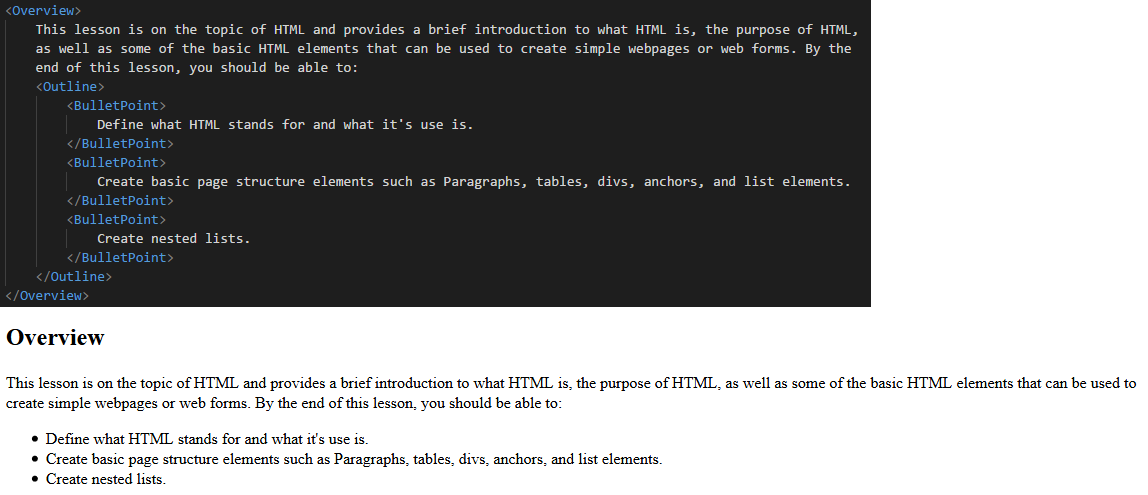
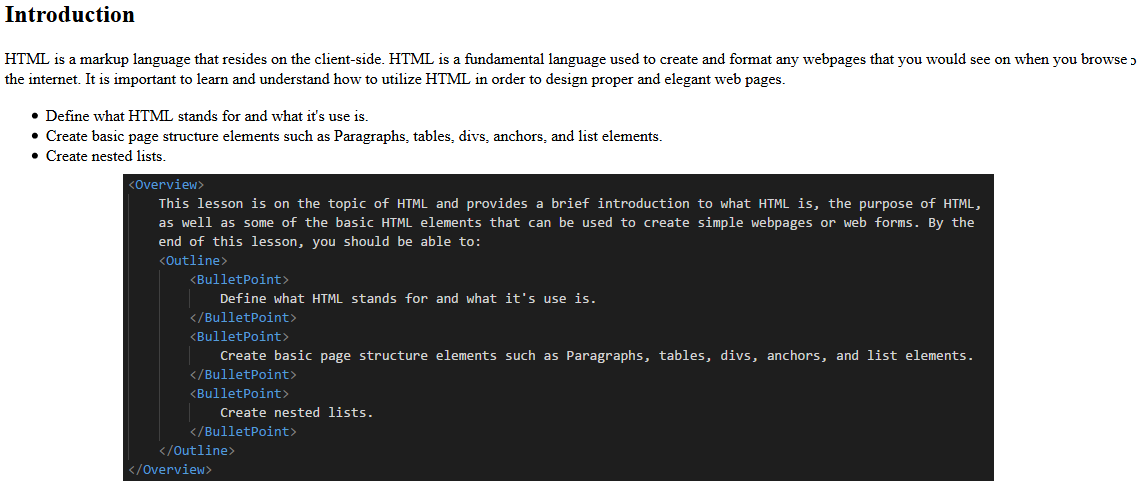
Working more on documentation

diff --git a/tma2.htm b/tma2.htm
@@ -15,16 +15,13 @@
         <div class="linksBar">
             <ul>
                 <li>
-                    <a href="part1/resume.xml">Resume</a>
+                    <a href="tma2.htm">Home</a>
                 </li>
                 <li>
-                    <a href="part2/WelcomeToLearnTheWeb.html">Learn The Web</a>
+                    <a href="part1/WelcomeToSiteMark.php">SiteMark</a>
                 </li>
                 <li>
-                    <a href="part3/photoSlideshow.html">Photo Slideshow</a>
-                </li>
-                <li>
-                    <a href="part4/UtilityTools.html">Utility Tools</a>
+                    <a href="part2/WelcomeToLearnatorium.php">Learn The Web</a>
                 </li>
             </ul>
         </div>
@@ -458,76 +455,89 @@
                     and add those courses to their list of courses. This allows different users to have their own list of courses they can take and work 
                     on. One of the core components of this system is the EMLs (educational markup langugages), which makes course creation more simple. 
                     It allows SMEs (Subject Matter Experts) to create courses without having to know programming knowledge to create a web page for 
-                    their courses. The only thing the SME needs to know is how to write XML tags, which is the format that the EML is in.
-                    
-                    
-                    
-                    The educational markup language should 
-                    be consise to the development of a course. This means that the EML tags should have terminology that occurs often in course development. 
-                    As well, each of the terms should be explained thoroughly in their use and how they should be used. This is to educate the SME on 
-                    how to create a course using the EML. Next, the database design is important. The database should be able to store lots of information 
-                    including courses, units, lessons, quizzes, learner information, images, videos, and audio files. For things such as images, videos, 
-                    and audio files, it was not specified how these files should be stored in the database, meaning that they could be stored directly 
-                    into the database as a blob object, or the URL to these learning objects could be stored, as long as a copy of these objects are 
-                    stored at a known location on the database. After these technologies are developed for the application, the PHP parser should be 
-                    created. This parser will take the EML data stored in the database and parse it into HTML elements that will be displayed to the 
-                    users. The PHP parser can take the XML structures and replace the text inside the tags with HTML elements as a simple parser. For 
-                    example, a &lt;Paragraph&gt; tag can be replaced by &lt;p&gt; in the parser to conver the Paragraph tag into an acutal HTML p tag.
-                    In terms of data inside the EML, there will be information about learning content and quizzes. The learning content can come from 
-                    the first assignment's part 2, where a education system was developed, as long as the data is rewritten in the EML structure. Along 
-                    with each lesson, there should be a quiz that follows. Here, I am assuming that it is alright for the quiz to be similar to the 
-                    quizzes that were implemented in assignment 1 part 2. Finally, the implementatin portion should have the system deployed onto a 
-                    web server for someone to evalutate the system. The system should look and feel like a learning management system, with funcitonalities 
-                    of an online learning management system.
+                    their courses. The only thing the SME needs to know is how to write XML tags, which is the format that the EML is in. The system will 
+                    contain two different EMLs, one EML is used for describing the lessons, while the other lesson is an EML to describe the quizzes 
+                    associated with each lesson. The EML for the lessons is described using the following tags:
                 </p>
 
-                <p class="title4">
-                    
-
-                    There are two different EMLs for this assignment; one EML is used for describing the lessons, 
-                    while the other lesson is an EML to describe the quizzes associated with each lesson. The EML
-                    for the lessons is described using the following tags:
-                </p>
-                
                 <ul class="title4">
                     <li>
                         <b>&lt;Overview&gt;&lt;/Overview&gt;</b> Describes the overview of the lesson, similar to 
-                        an abstract for a technical document.
+                        an abstract for a technical document. Text for the overview is placed within the Overview Tags
                     </li>
                     <li>
-                        <b>&lt;Outline&gt;&lt;/Outline&gt;</b> A container inside the outline of topics associated with. 
-                        Each Outline tag contains BulletPoint tags inside to specify each point for the outline.
+                        <b>&lt;Outline&gt;&lt;/Outline&gt;</b> A container for the outline topics, where the outline tag is placed 
+                        inside the Overview Tags, after the text inside the Overview Tags. Each Outline tag contains BulletPoint 
+                        tags inside to specify each point for the outline.
                     </li>
                     <li>
-                        <b>&lt;BulletPoint&gt;&lt;/BulletPoint&gt;</b> A bullet point inside of the outline.
+                        <b>&lt;BulletPoint&gt;&lt;/BulletPoint&gt;</b> A bullet point inside of the outline. The BulletPoint tag resides 
+                        inside the Outline tags, and the text for the bullet point is inputted between the BulletPoint tags.
+                    </li>
+                    <li>
+                        Here's an example of an Overview, Outline, and multiple BulletPoint elements The Overview Tag creates 
+                        the title and the information below the title. The Outline and BulletPoint tags create the list.
+                        <img src="../shared/part2_EML_overview.png" alt="Picture of the code containing an Overview, Outline, 
+                        and three BulletPoint EML tags. There is also a picture of the rendered HTML."></img>
                     </li>
                     <li>
                         <b>&lt;Introduction&gt;&lt;/Introduction&gt;</b> Is a brief paragraph providing some insight 
-                        on what the lesson is about.
+                        on what the lesson is about. The text for the introduction is entered between the Introduction tags
                     </li>
                     <li>
-                        <b>&lt;Section&gt;&lt;/Section&gt;</b> Contains the section name inside the tag. The section 
-                        contains a portion of the lesson describing a specific topic.
+                        Here's an example of a lesson element and the EML code to create the sesson element.
+                        <img src="../shared/part2_EML_introduction.png" alt="Picture of the code containing an introduction EML tag. 
+                        There is also a picture of the rendered HTML."></img>
                     </li>
                     <li>
-                        <b>&lt;Paragraph&gt;</b> Used to split the text of a section into different paragraphs for 
-                        easier readability.
+                        <b>&lt;SectionHeader&gt;&lt;/SectionHeader&gt;</b> Contains the name of the section inside the tag. The 
+                        text for the section header is placed between the SectionHeader tags.
+                    </li>
+                    <li>
+                        <b>&lt;Section&gt;&lt;/Section&gt;</b> Contains the information for a section which is described by the 
+                        section header. The section can contain information such as paragraphs, images, videos, or audio information. 
+                        The Section tag is placed after the SectionHeader tags, where other EML tags can be placed between the Section tags.
+                    </li>
+                    <li>
+                        <b>&lt;Paragraph&gt;</b> Used to split the text of a section into different paragraphs for easier readability. The 
+                        text for the paragraph is placed between the Paragraph tags.
+                    </li>
+                    <li>
+                        Here's an example of a SectionHeader and Section element with a Paragraph element inside, along with the EML code to 
+                        create the section and paragraph elements.
+                        <img src="../shared/part2_EML_section.png" alt="Picture of the code containing a SectionHeader, Section, and 
+                        Paragraph EML tag. There is also a picture of the rendered HTML."></img>
                     </li>
                     <li>
                         <b>&lt;Conclusion&gt;&lt;/Conclusion&gt;</b> The conclusion, or closing section of the lesson.
                     </li>
                     <li>
-                        <b>&lt;Keyword&gt;&lt;/Keyword&gt;</b> A keyword tag is used to enclose a word or phrase, adding 
-                        emphasis to the word or phrase by bolding the text.
+                        <b>&lt;Image filename=&quot;&quot; description=&quot;&quot;&gt;&lt;/Image&gt;</b> Used to create an image element. The filename 
+                        attribute defines the name of the image file, and the description attribute is the alternative value if the image doesn't 
+                        show. Nothing is placed between the Image tags.
                     </li>
                     <li>
-                        <b>&lt;Image&gt;&lt;/Image&gt;</b> Used to define an image.
+                        Here's an example of an image displayed through the EML code.
+                        <img src="../shared/part2_EML_image.png" alt="Picture of the code containing an image EML tag with bobcat.jpg as the 
+                        filename. There is also a text definition for the bobcat image. There is also a picture of the image rendered HTML."></img>
                     </li>
                     <li>
-                        <b>&lt;Video&gt;&lt;/Video&gt;</b> Used to define a video.
+                        <b>&lt;Video filename=&quot;&quot;&gt;&lt;/Video&gt;</b> Used to create a video element. The filename attribute defines the name of 
+                        the image file. Nothing is placed between the Video tags.
                     </li>
                     <li>
-                        <b>&lt;Audio&gt;&lt;/Audio&gt;</b> Used to define an audio file.
+                        Here's an example of an video displayed through the EML code.
+                        <img src="../shared/part2_EML_video.png" alt="Picture of the code containing a video EML tag with video.jpg as the filename.
+                         There is also a picture of the a part of the video rendered HTML."></img>
+                    </li>
+                    <li>
+                        <b>&lt;Audio filename=&quot;&quot;&gt;&lt;/Audio&gt;</b> Used to create an audio element. The filename attribute defines the name 
+                        of the audio file. Nothing is placed between the Audio tags.
+                    </li>
+                    <li>
+                        Here's an example of an image displayed through the EML code.
+                        <img src="../shared/part2_EML_sound.png" alt="Picture of the code containing an image EML tag with bobcat.jpg as the 
+                        filename. There is also a text definition for the bobcat image. There is also a picture of the image rendered HTML."></img>
                     </li>
                 </ul>
 
@@ -538,18 +548,86 @@
 
                 <ul class="title4">
                     <li>
-                        <b>&lt;Question&gt;&lt;/Question&gt;</b> Defines the question for the quiz. Include the question
-                        number within the tags
+                        <b>&lt;Question name=&quot;&quot;&gt;&lt;/Question&gt;</b> Defines the title of the question. The text for the question is inside 
+                        the Question Tags and the name attribute specifies which question the question is on (ie. name=&quot;Question1&quot; for question 1).
                     </li>
                     <li>
-                        <b>&lt;Answer&gt;&lt;/Answer&gt;</b>Defines an incorrect answer to the question. Each answer 
-                        is following a question is associated with the question.
+                        <b>&lt;Answer name=&quot;&quot; correct=&quot;&quot;&gt;&lt;/Answer&gt;</b>Defines a possible answer for the question. The text for the 
+                        question goes between the Answer Tags. The name attribute specifies which question the possible answer belongs to (should match the 
+                        name attribute of the Question Tag) and the correct attribute specifies if the answer is correct or not. For a correct answer, the 
+                        value of the correct attribute should be * (ie. correct=&quot;*&quot;). For an incorrect answer, the value of the correct attribute 
+                        should be left blank (ie. correct=&quot;&quot;).
                     </li>
                     <li>
-                        <b>&lt;CorrectAnswer&gt;&lt;/CorrectAnswer&gt;</b> Similar to an answer, but specifies the correct 
-                        answer to the question
+                        Here's an example of a multiple choice question displayed through the EML code. In this example, the correct answer is the first answer, 
+                        denoted by the astericks in the correct attribute's value.
+                        <img src="../shared/part2_EML_question.png" alt="Picture of a multiple choice question with four possible answers. There is also an 
+                        image of the code that creates the questions and answers"></img>
                     </li>
                 </ul>
+
+                <p class="title4">
+                    The educational markup language should be consise to the development of a course. This means that the EML tags should have terminology 
+                    that occurs often in course development, which is modeled in the EML tags explained above. The explanations for the EML tags help to educate 
+                    the SME on how to create a course using the EML. 
+                </p>
+                    
+                <p class="title4">
+                    Next, the database design is important. The database should be able to store lots of information including courses, units, lessons, 
+                    quizzes, learner information, images, videos, and audio files. For things such as images, videos, and audio files, it was not specified 
+                    how these files should be stored in the database, meaning that they could be stored directly into the database as a blob object, 
+                    or the URL to these learning objects could be stored, as long as a copy of these objects are stored at a known location on the database. 
+                    The format for the database is that there will be multiple tables. In total, there will be seven tables, which will be described below:
+                </p>
+
+                <ul class="title4">
+                    <li>
+                        A <b>users</b> table containing three columns: username, password, and admin, with the primary key of the table being the username. This means 
+                        that the usernames in the system must be unique. The admin column defines whether the user is an admin or a regular user, where an admin 
+                        has the priviledge of creating courses.
+                    </li>
+                    <li>
+                        A <b>usersCourses</b> table, containing two columns: username and courseID, where the primary key is a combination of the username and courseID. 
+                        There is also a foreign key on usernames to the username column in the users table. The combination of username and courseID for the primary 
+                        key makes it so that each user cannot have duplicate courses with the same courseID.
+                    </li>
+                    <li>
+                        A <b>units</b> table, containing three columns: ID, course, and name, where the ID is an auto incremented primary key, making each unit unique. 
+                        There is also a foreign key to the course column, referring to the ID column in the courses table. This links the unit to the course. The name 
+                        column is the name of the unit
+                    </li>
+                    <li>
+                        A <b>lessons</b> table, containing four columns: ID, unit, name, and content, where the ID is an auto incremented primary key, making each 
+                        lesson unique. There is also a foreign key on the unit column, referring to the ID column in the units table. This links the lesson to a unit 
+                        in a course. The name column is the name of the lesson and the content column contains the information about the lesson EML.
+                    </li>
+                    <li>
+                        A <b>quizzes</b> table, containing three columns: ID, lesson, and content, where the ID is an auto incremented primary key, making each 
+                        lesson unique. There is also a foreign key on the lesson column, referring to the ID column in the lessons table. This links the quiz to a 
+                        lesson in a unit contained in a course. The reason why the quiz is linked to a lesson is because each lesson should have a quiz after it. The 
+                        content column contains the information about hte quiz EML.
+                    </li>
+                    <li>
+                        A <b>lessonObjects</b> table, containing four columns: course, type, filename, location, where a combination of the course and filename creates 
+                        a primary key. This means that each course can only contain one lesson object with the same name. There is also a foreign key on the course 
+                        column, referring to the ID column in the courses table. The type attribute contains the type of the lesson object, which is the extension of 
+                        the file (excluding the period, ie. png for a .png image file). The filename column contains the name of the lesson object (ie. image.png). The 
+                        location column contains the location on the server where the lesson object is stored. 
+                    </li>
+                </ul>
+
+                <p class="title4">
+                    After these technologies are developed for the application, the PHP parser should be 
+                    created. This parser will take the EML data stored in the database and parse it into HTML elements that will be displayed to the 
+                    users. The PHP parser can take the XML structures and replace the text inside the tags with HTML elements as a simple parser. For 
+                    example, a &lt;Paragraph&gt; tag can be replaced by &lt;p&gt; in the parser to conver the Paragraph tag into an acutal HTML p tag.
+                    In terms of data inside the EML, there will be information about learning content and quizzes. The learning content can come from 
+                    the first assignment's part 2, where a education system was developed, as long as the data is rewritten in the EML structure. Along 
+                    with each lesson, there should be a quiz that follows. Here, I am assuming that it is alright for the quiz to be similar to the 
+                    quizzes that were implemented in assignment 1 part 2. Finally, the implementatin portion should have the system deployed onto a 
+                    web server for someone to evalutate the system. The system should look and feel like a learning management system, with funcitonalities 
+                    of an online learning management system.
+                </p>
 
                 <hr />
 
